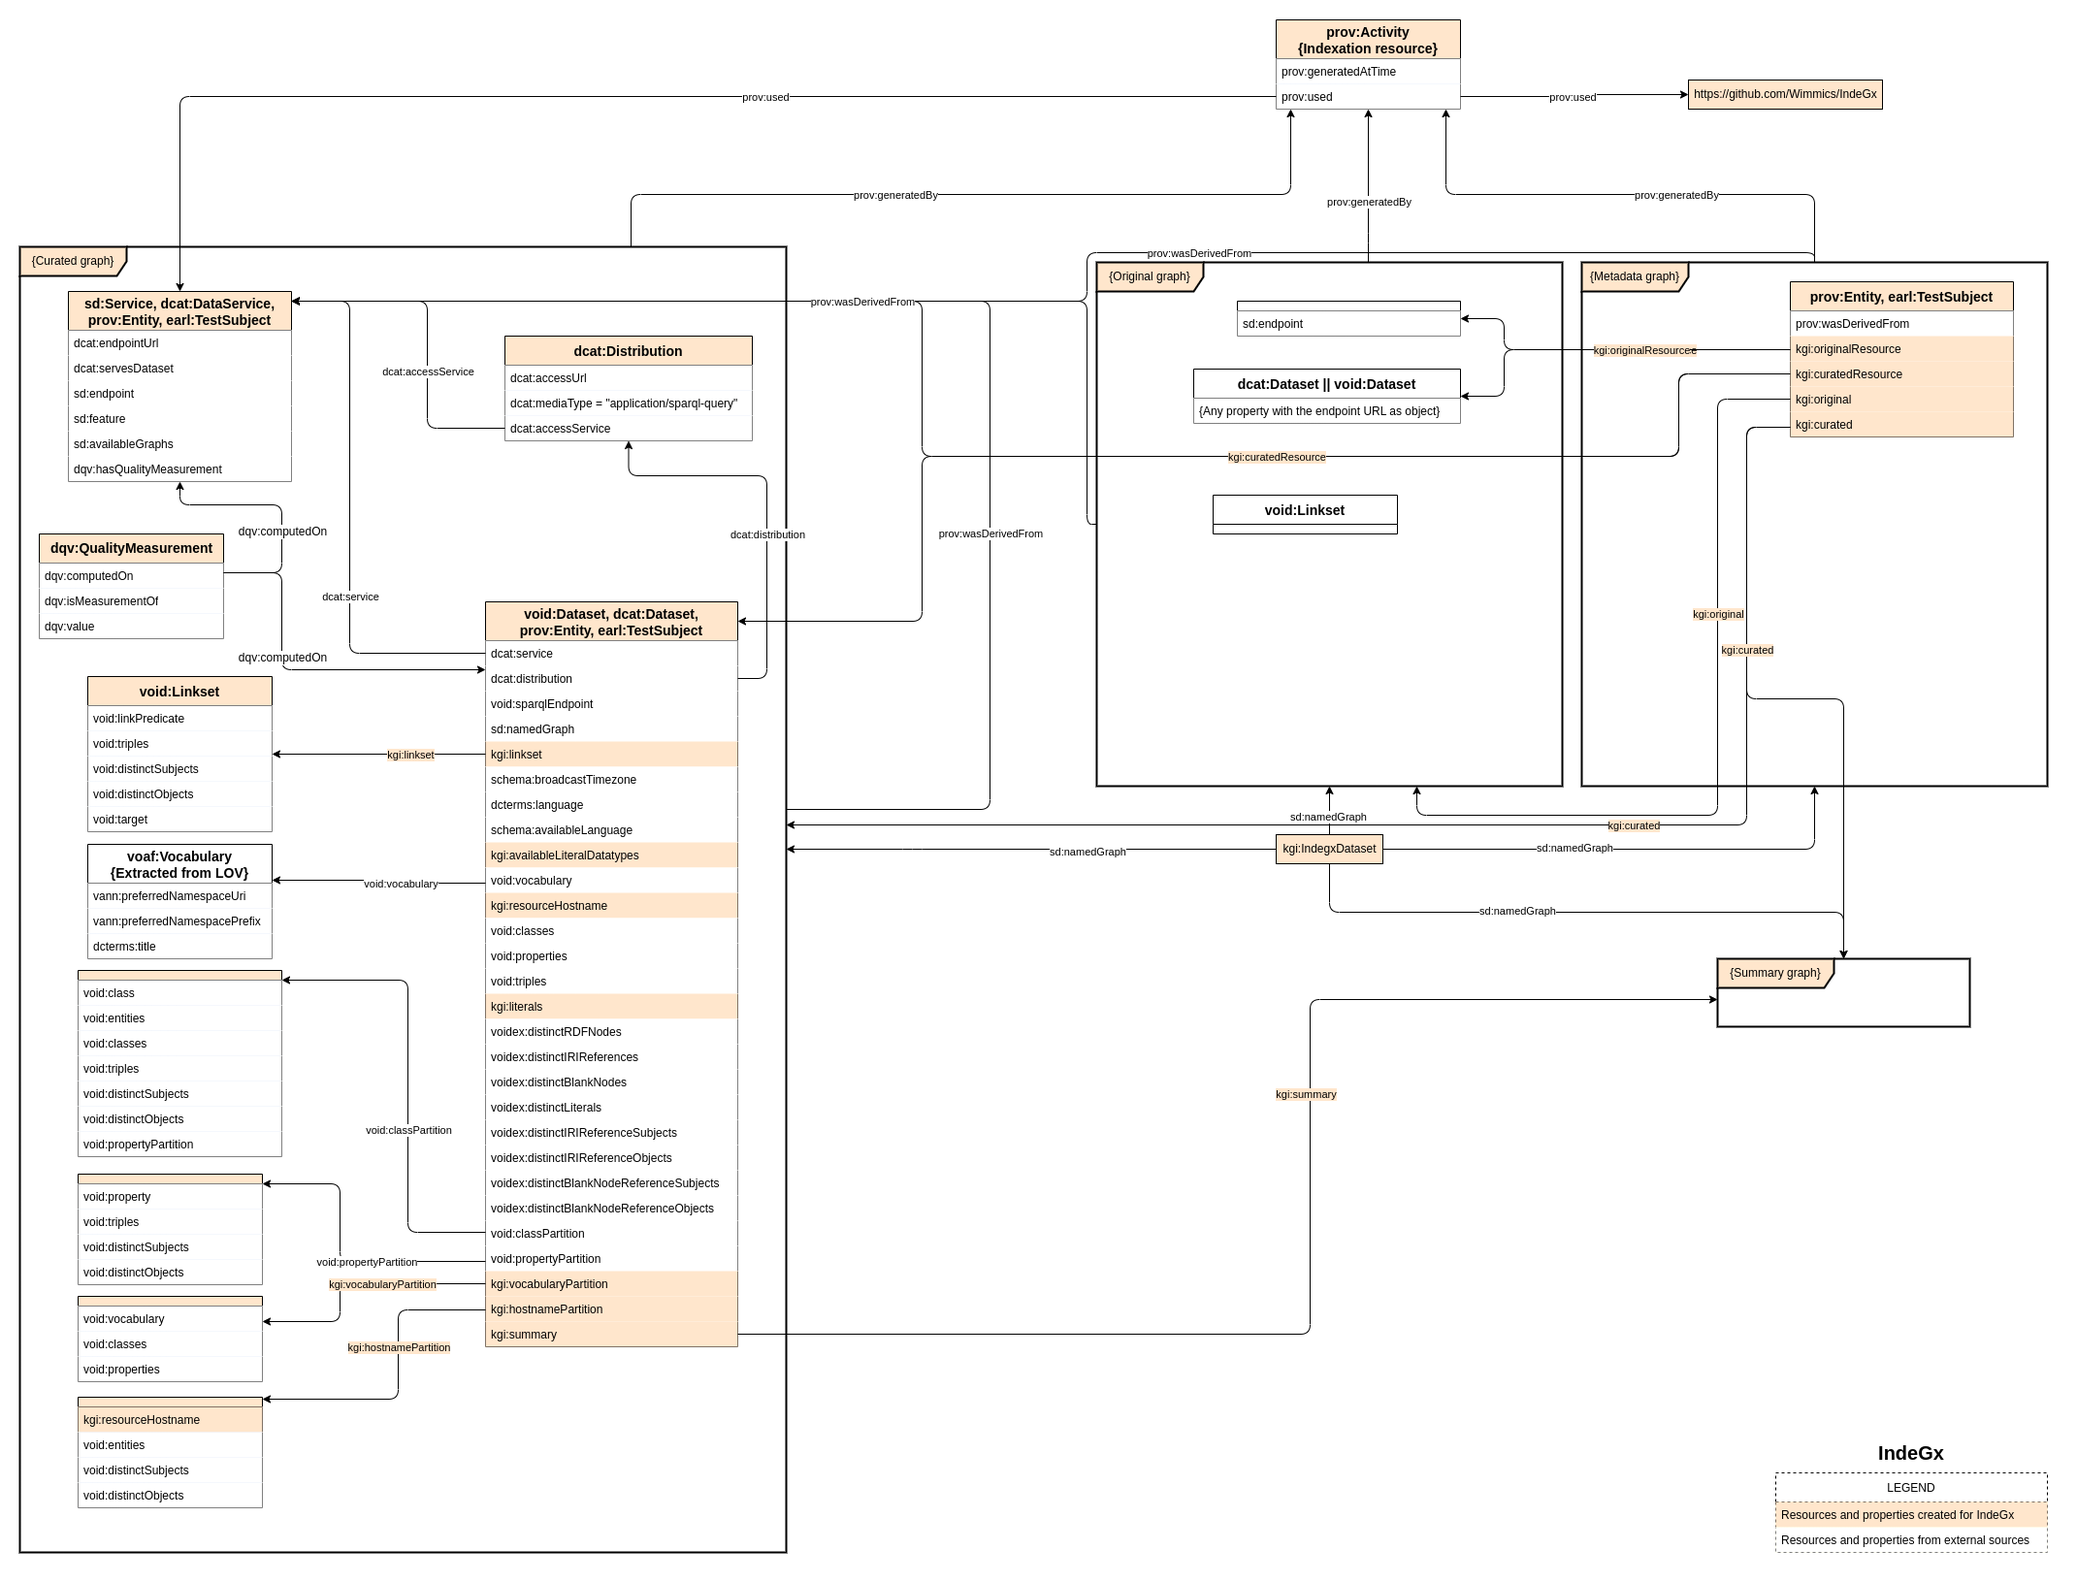
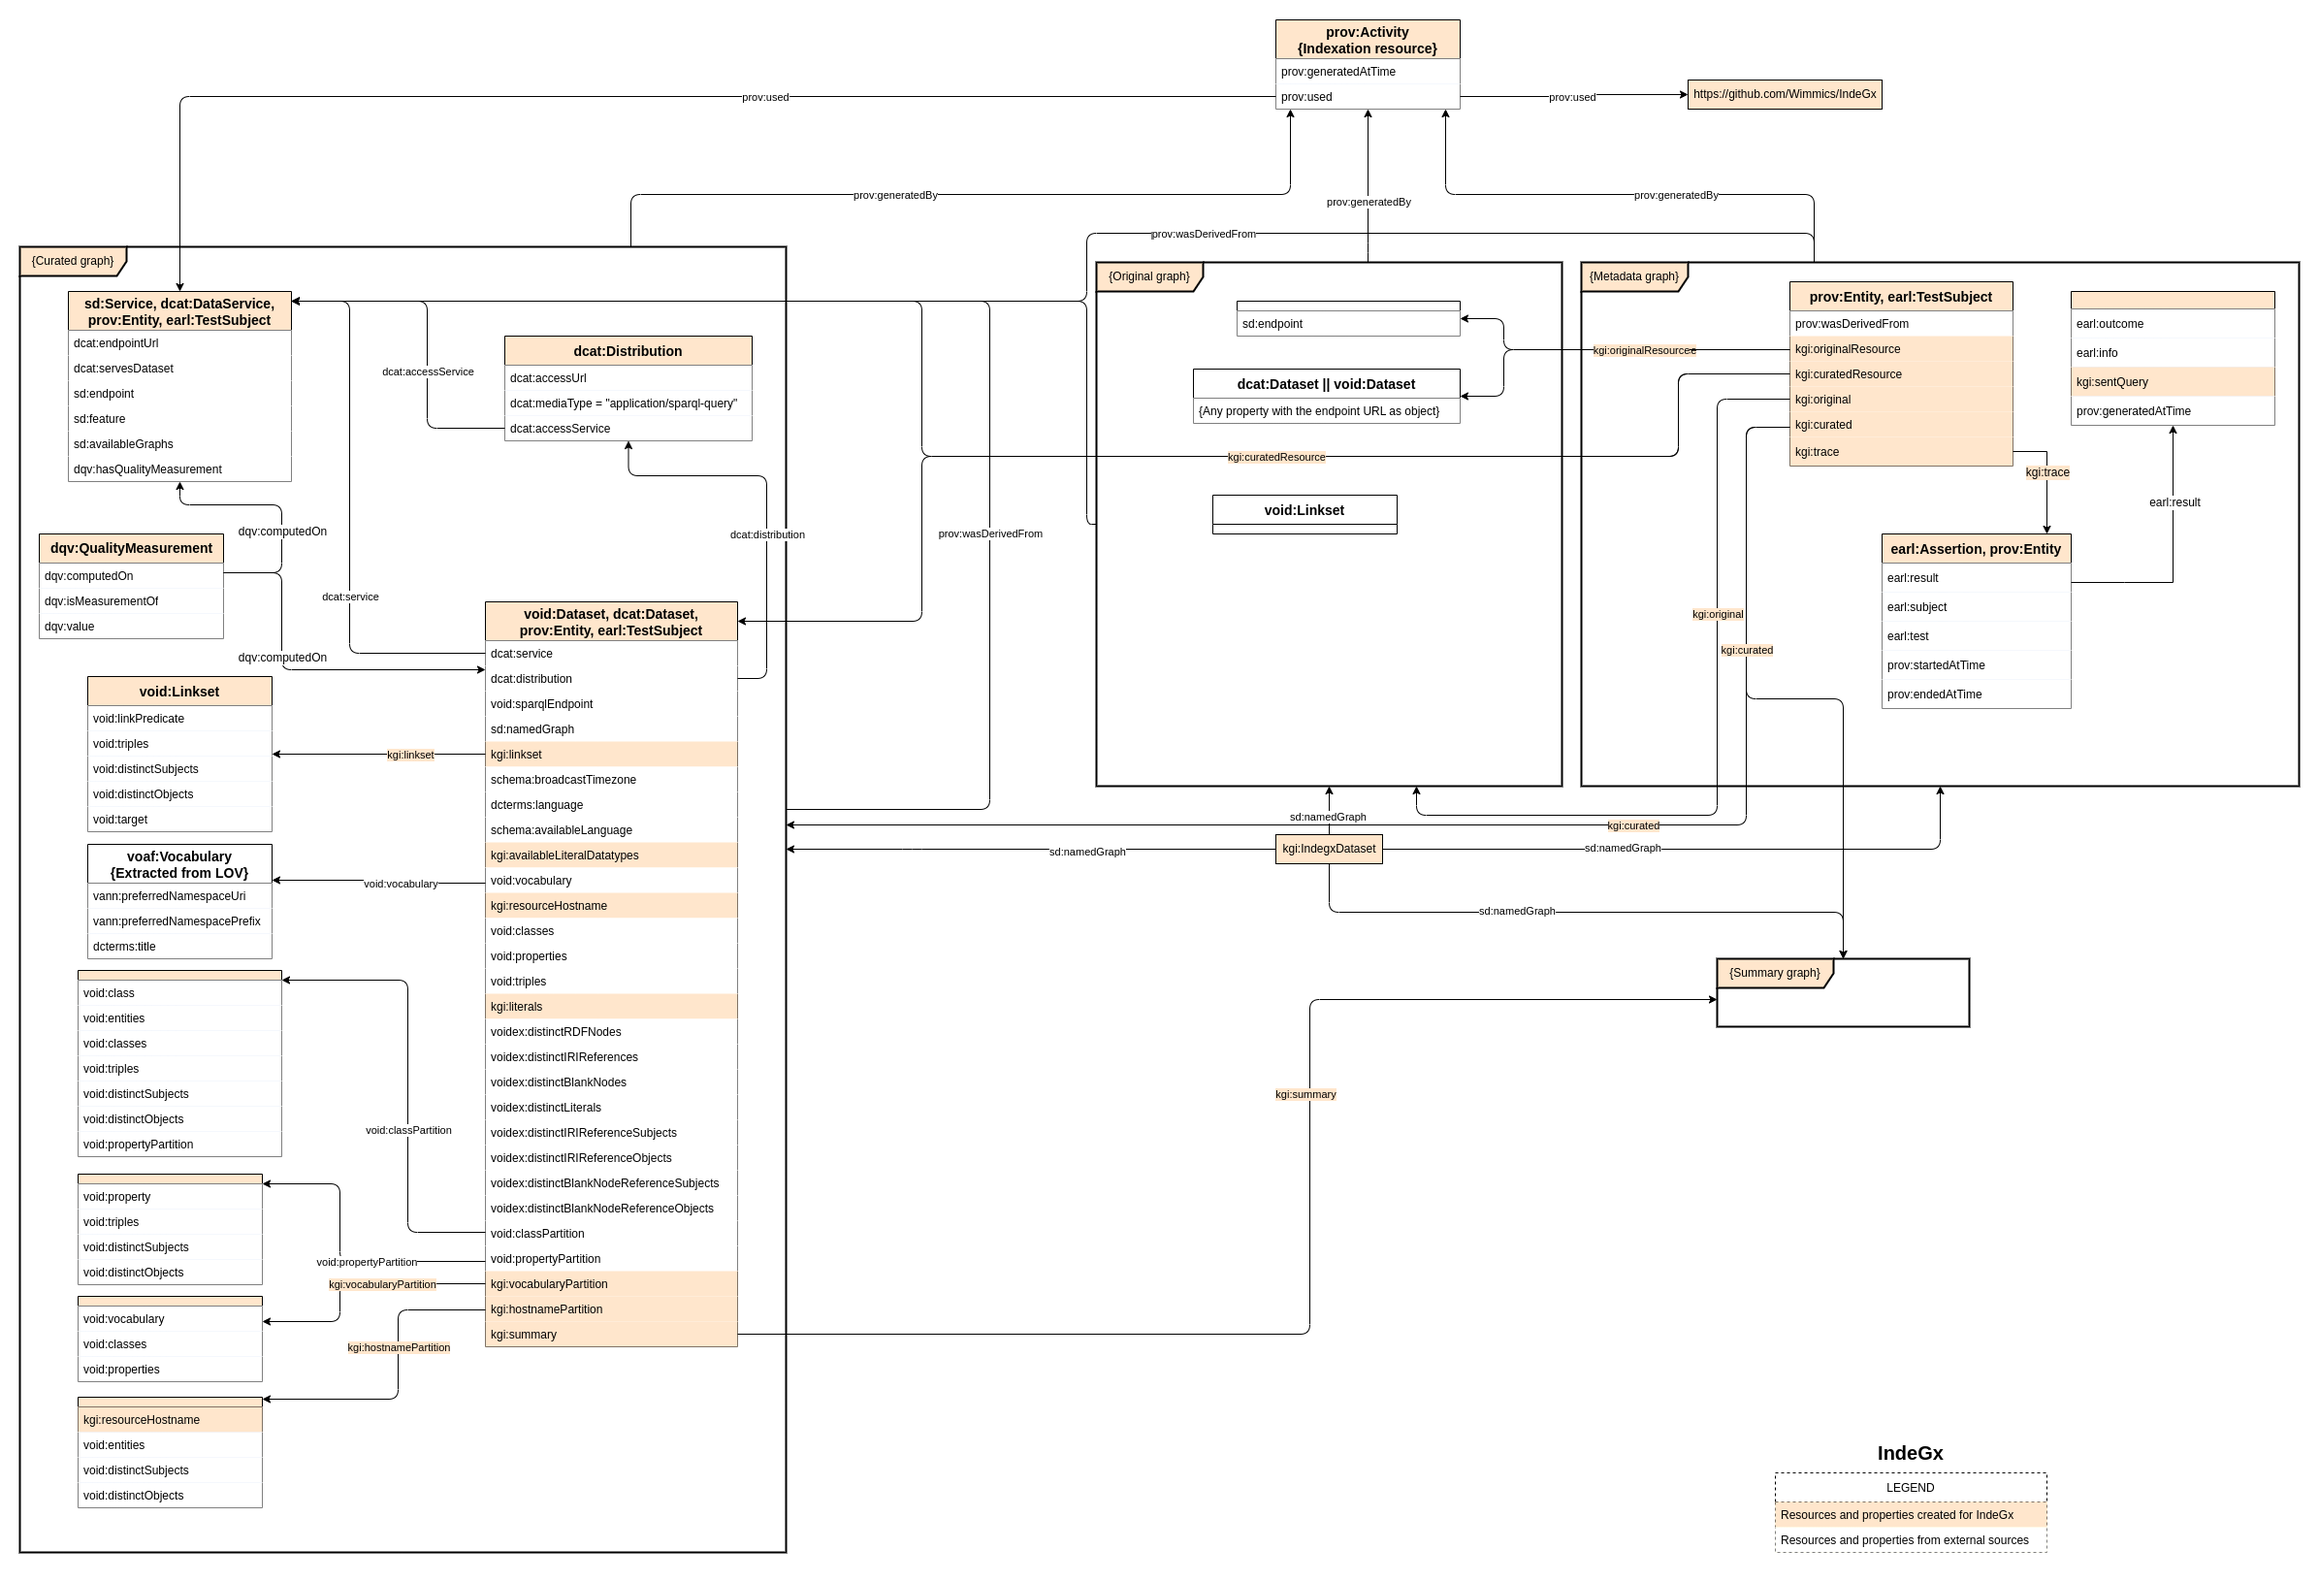
Documentation and rule fixes

diff --git a/rules/README.md b/rules/README.md
@@ -35,20 +35,20 @@ Actions are instances of `kgi:Action`. In the tree-like structure of the metadat
 
 ## IndeGx KG data structure
 
-The IndeGx KG is composed of four graphs: the asserted graph, the computed graph, the metadata graph, and the summary graph. The following schema presents the structure of the data generated using IndeGx rules for the indexation of one endpoint.
+For one endpoint indexed, the data generated by IndeGx is composed of four graphs: the asserted graph, the computed graph, the metadata graph, and the summary graph. The following schema presents the abridged structure of the data generated using IndeGx rules for the indexation of one endpoint.
 [![Schema of the IndeGx KG data structure](indegx_dataset.png)](./indegx_dataset.png)
 
 For each endpoint treated, IndeGx creates an indexation resource, shown at the top of the schema, and a metadata graph, shown on the right of the schema. Both resources are linked to the other three graphs that IndeGx generated from the endpoint.
 
 ### Asserted Graph
 
-For one endpoint, the asserted graph contains the metadata that are asserted by the endpoint itself. IndeGx searches for an endpoint description resource subject of the property `sd:endpoint` and is connected to the URL of the endpoint. If it finds one, IndeGx extracts all triples including this resource. In the same manner, IndeGx extracts all dataset description instances of either `dcat:Dataset` or `void:Dataset` connected to the endpoint. The triples including these resources are also added to the asserted graph.
+For one endpoint, the asserted graph contains the metadata that are asserted by the endpoint itself. IndeGx searches for an endpoint description resource subject of the property `sd:endpoint` and connected to the URL of the endpoint. If it finds one, IndeGx extracts all triples including this resource. In the same manner, IndeGx extracts all dataset description resources, that are instances of either `dcat:Dataset` or `void:Dataset`, connected to the endpoint URL. The triples including these resources are also added to the asserted graph.
 
 The extraction of the content of the asserted graph is directed by the rules found in the [`extraction/asserted`](./extraction/asserted/) folder of the IndeGx rules repository.
 
 ### Computed Graph
 
-The computed graph contains the metadata that is computed by IndeGx. It is composed of the triples generated by the application of the generation assets of the metadata generation rules. IndeGx creates separate endpoint and dataset description resources from the one found in the asserted graph.
+The computed graph contains the metadata that is computed by IndeGx. IndeGx creates separate endpoint and dataset description resources from the one found in the asserted graph.
 
 The [`extraction/computed`](./extraction/computed/) folder of the IndeGx rules repository contains the rules that are applied to compute the basic description of a dataset from an endpoint. The results of these rules are added to the computed graph as properties of the instances of either `sd:Service` or `void:Dataset`.
 
@@ -64,4 +64,4 @@ The summary graph contains a kind of summary of the structure of the data availa
 
 ### Metadata Graph
 
-The metadata graph contains metadata on the indexation process itself. It describes the different rules applied and contains a trace of the query sent and its outcome. The traces of a query is described using the EARL vocabulary.
+The metadata graph contains metadata on the indexation process itself. It describes the different rules applied and contains a trace of the query sent and its outcome. The trace of a query is described using the EARL vocabulary.

diff --git a/post/README.md b/post/README.md
@@ -2,7 +2,7 @@
 
 Post-treatment rules are rules that are applied of the KG resulting of the extraction by IndeGx from each endpoint. Their goal is to allow comparisons between KG descriptions and the enrichment of KG descriptions according to what was extracted.
 
-The usage of `$rawEndpointUrl` is discouraged in those rules as its value is the inner docker adress for the corese server. Other that this consideration, post-treament rules are defined as any other extraction rule for IndeGx.
+The usage of `$rawEndpointUrl` is discouraged in those rules as its value is the inner docker adress for the corese server. Other that this consideration, post-treament rules are defined as any other extraction rule for IndeGx, as presented in the [`rules` folder](../rules/README.md).
 
 ## Equivalences rules
 
